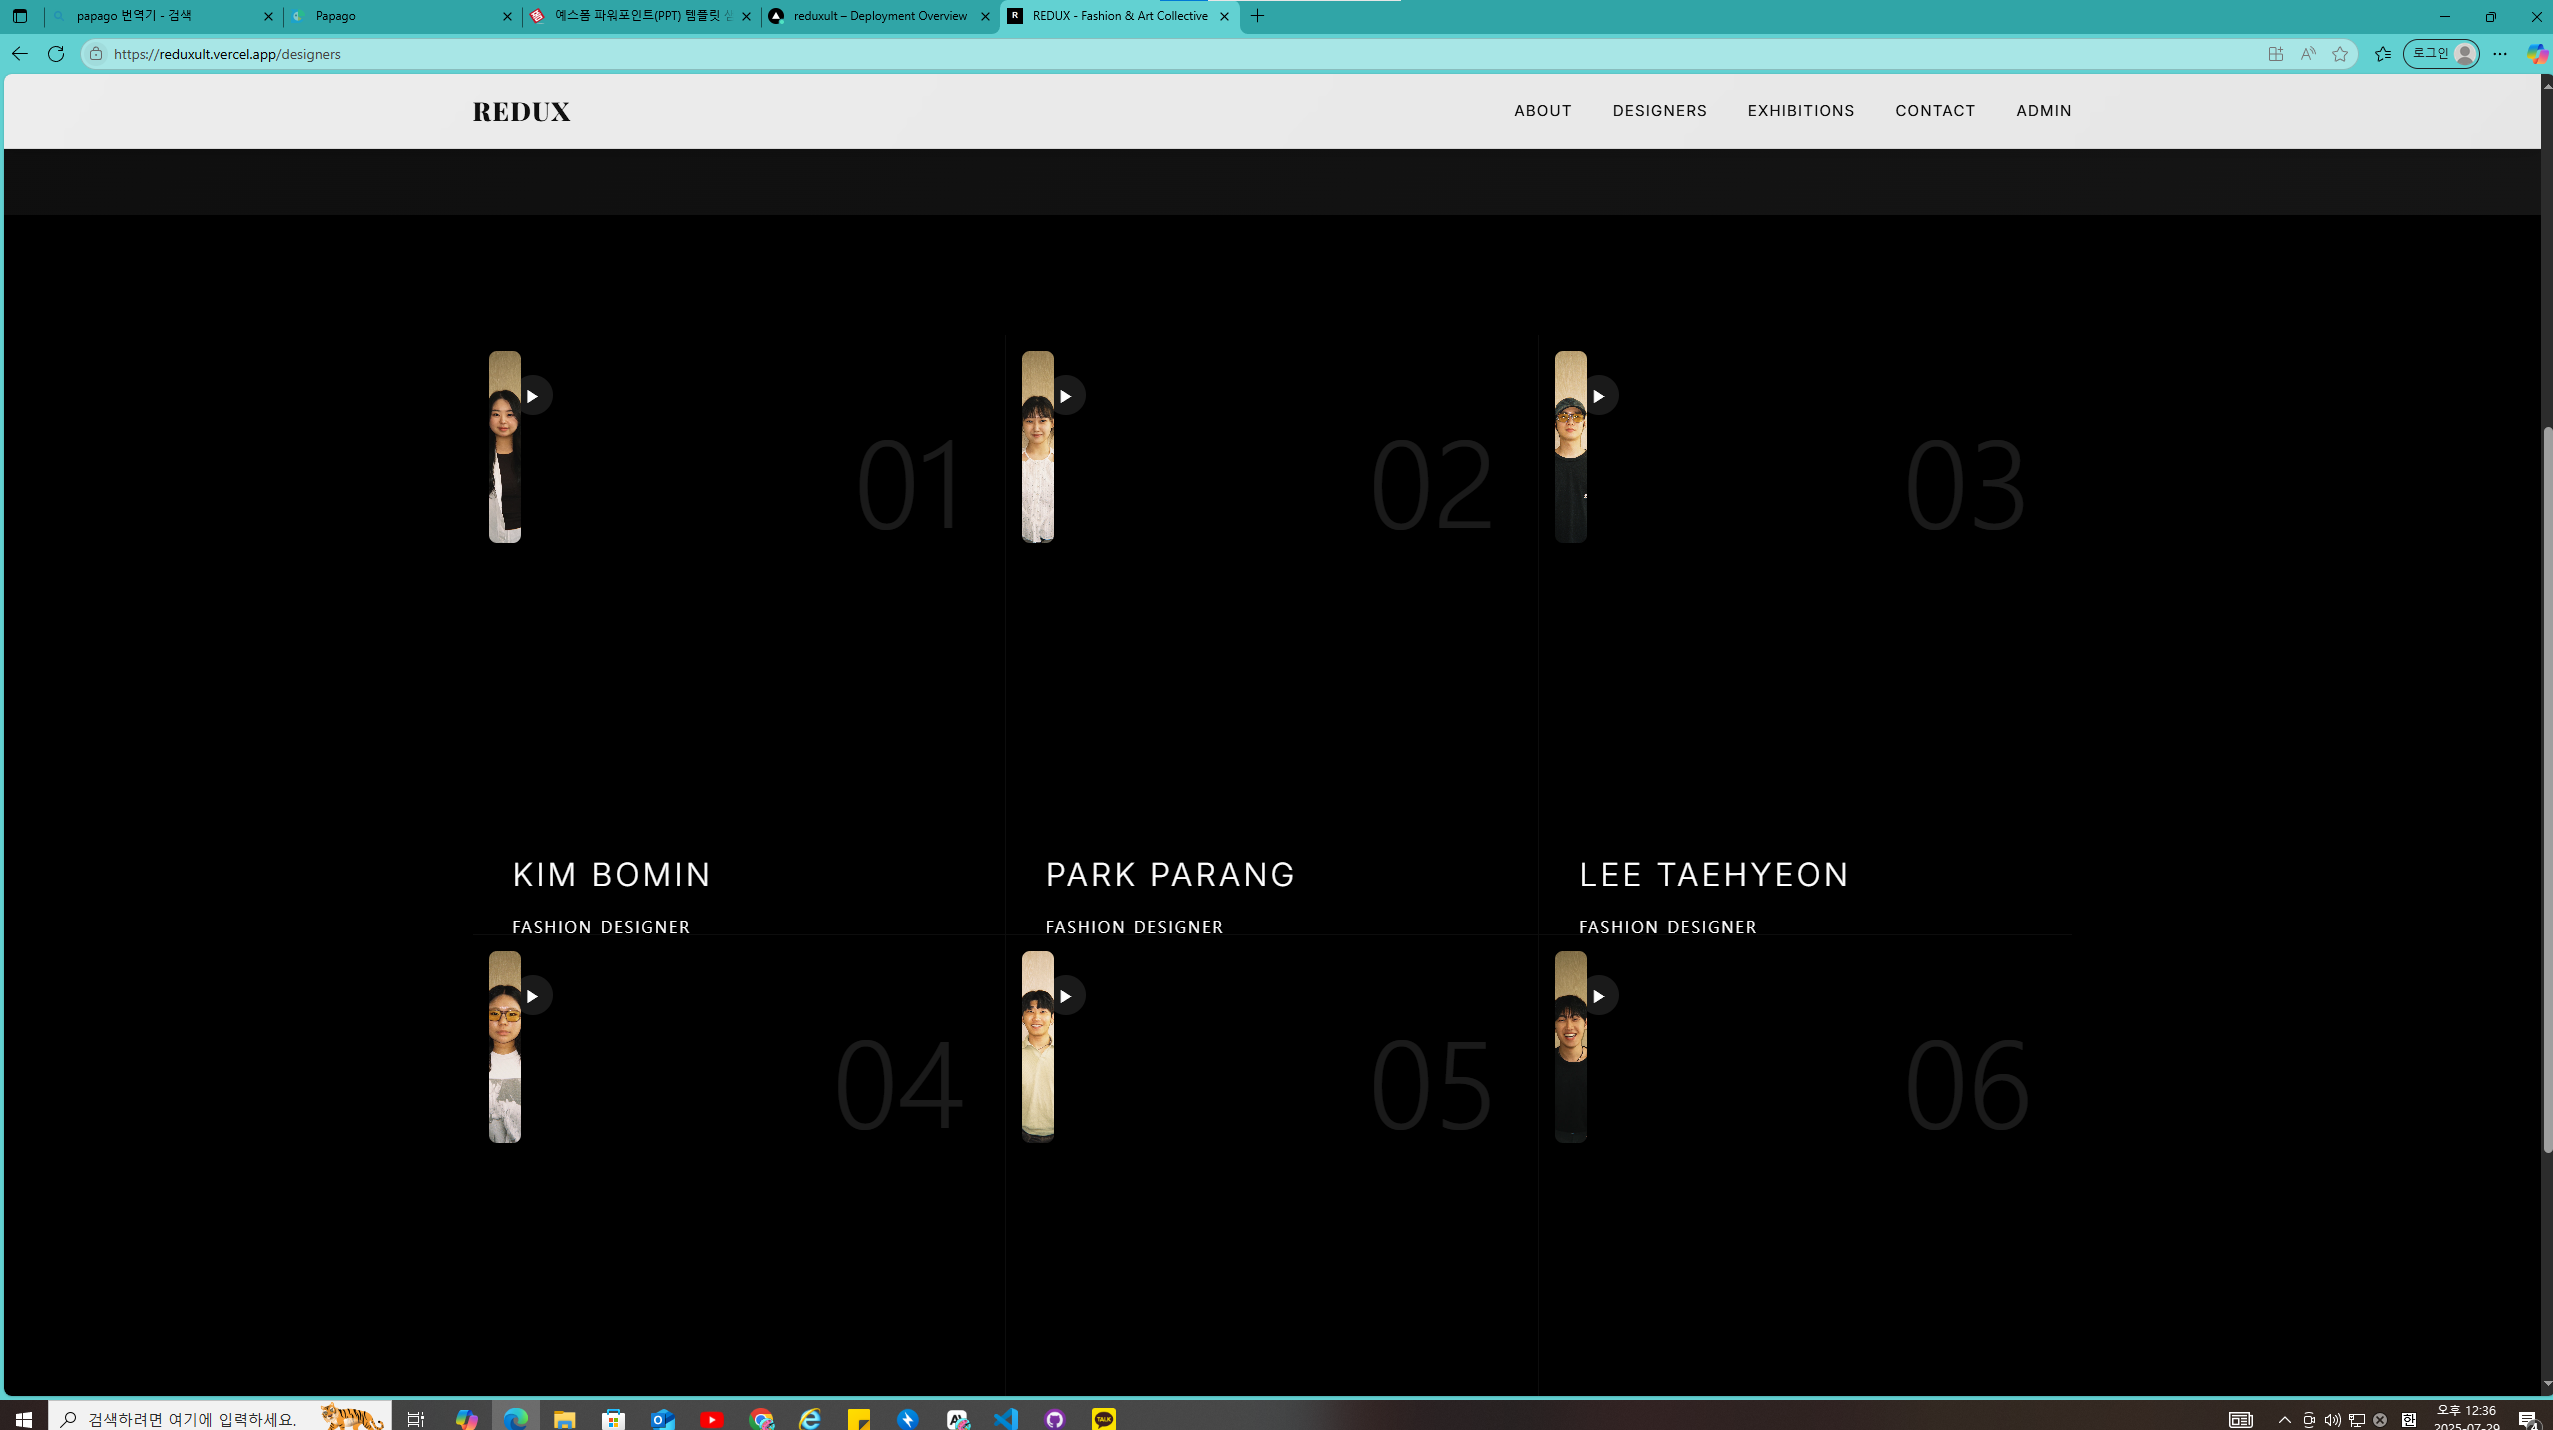
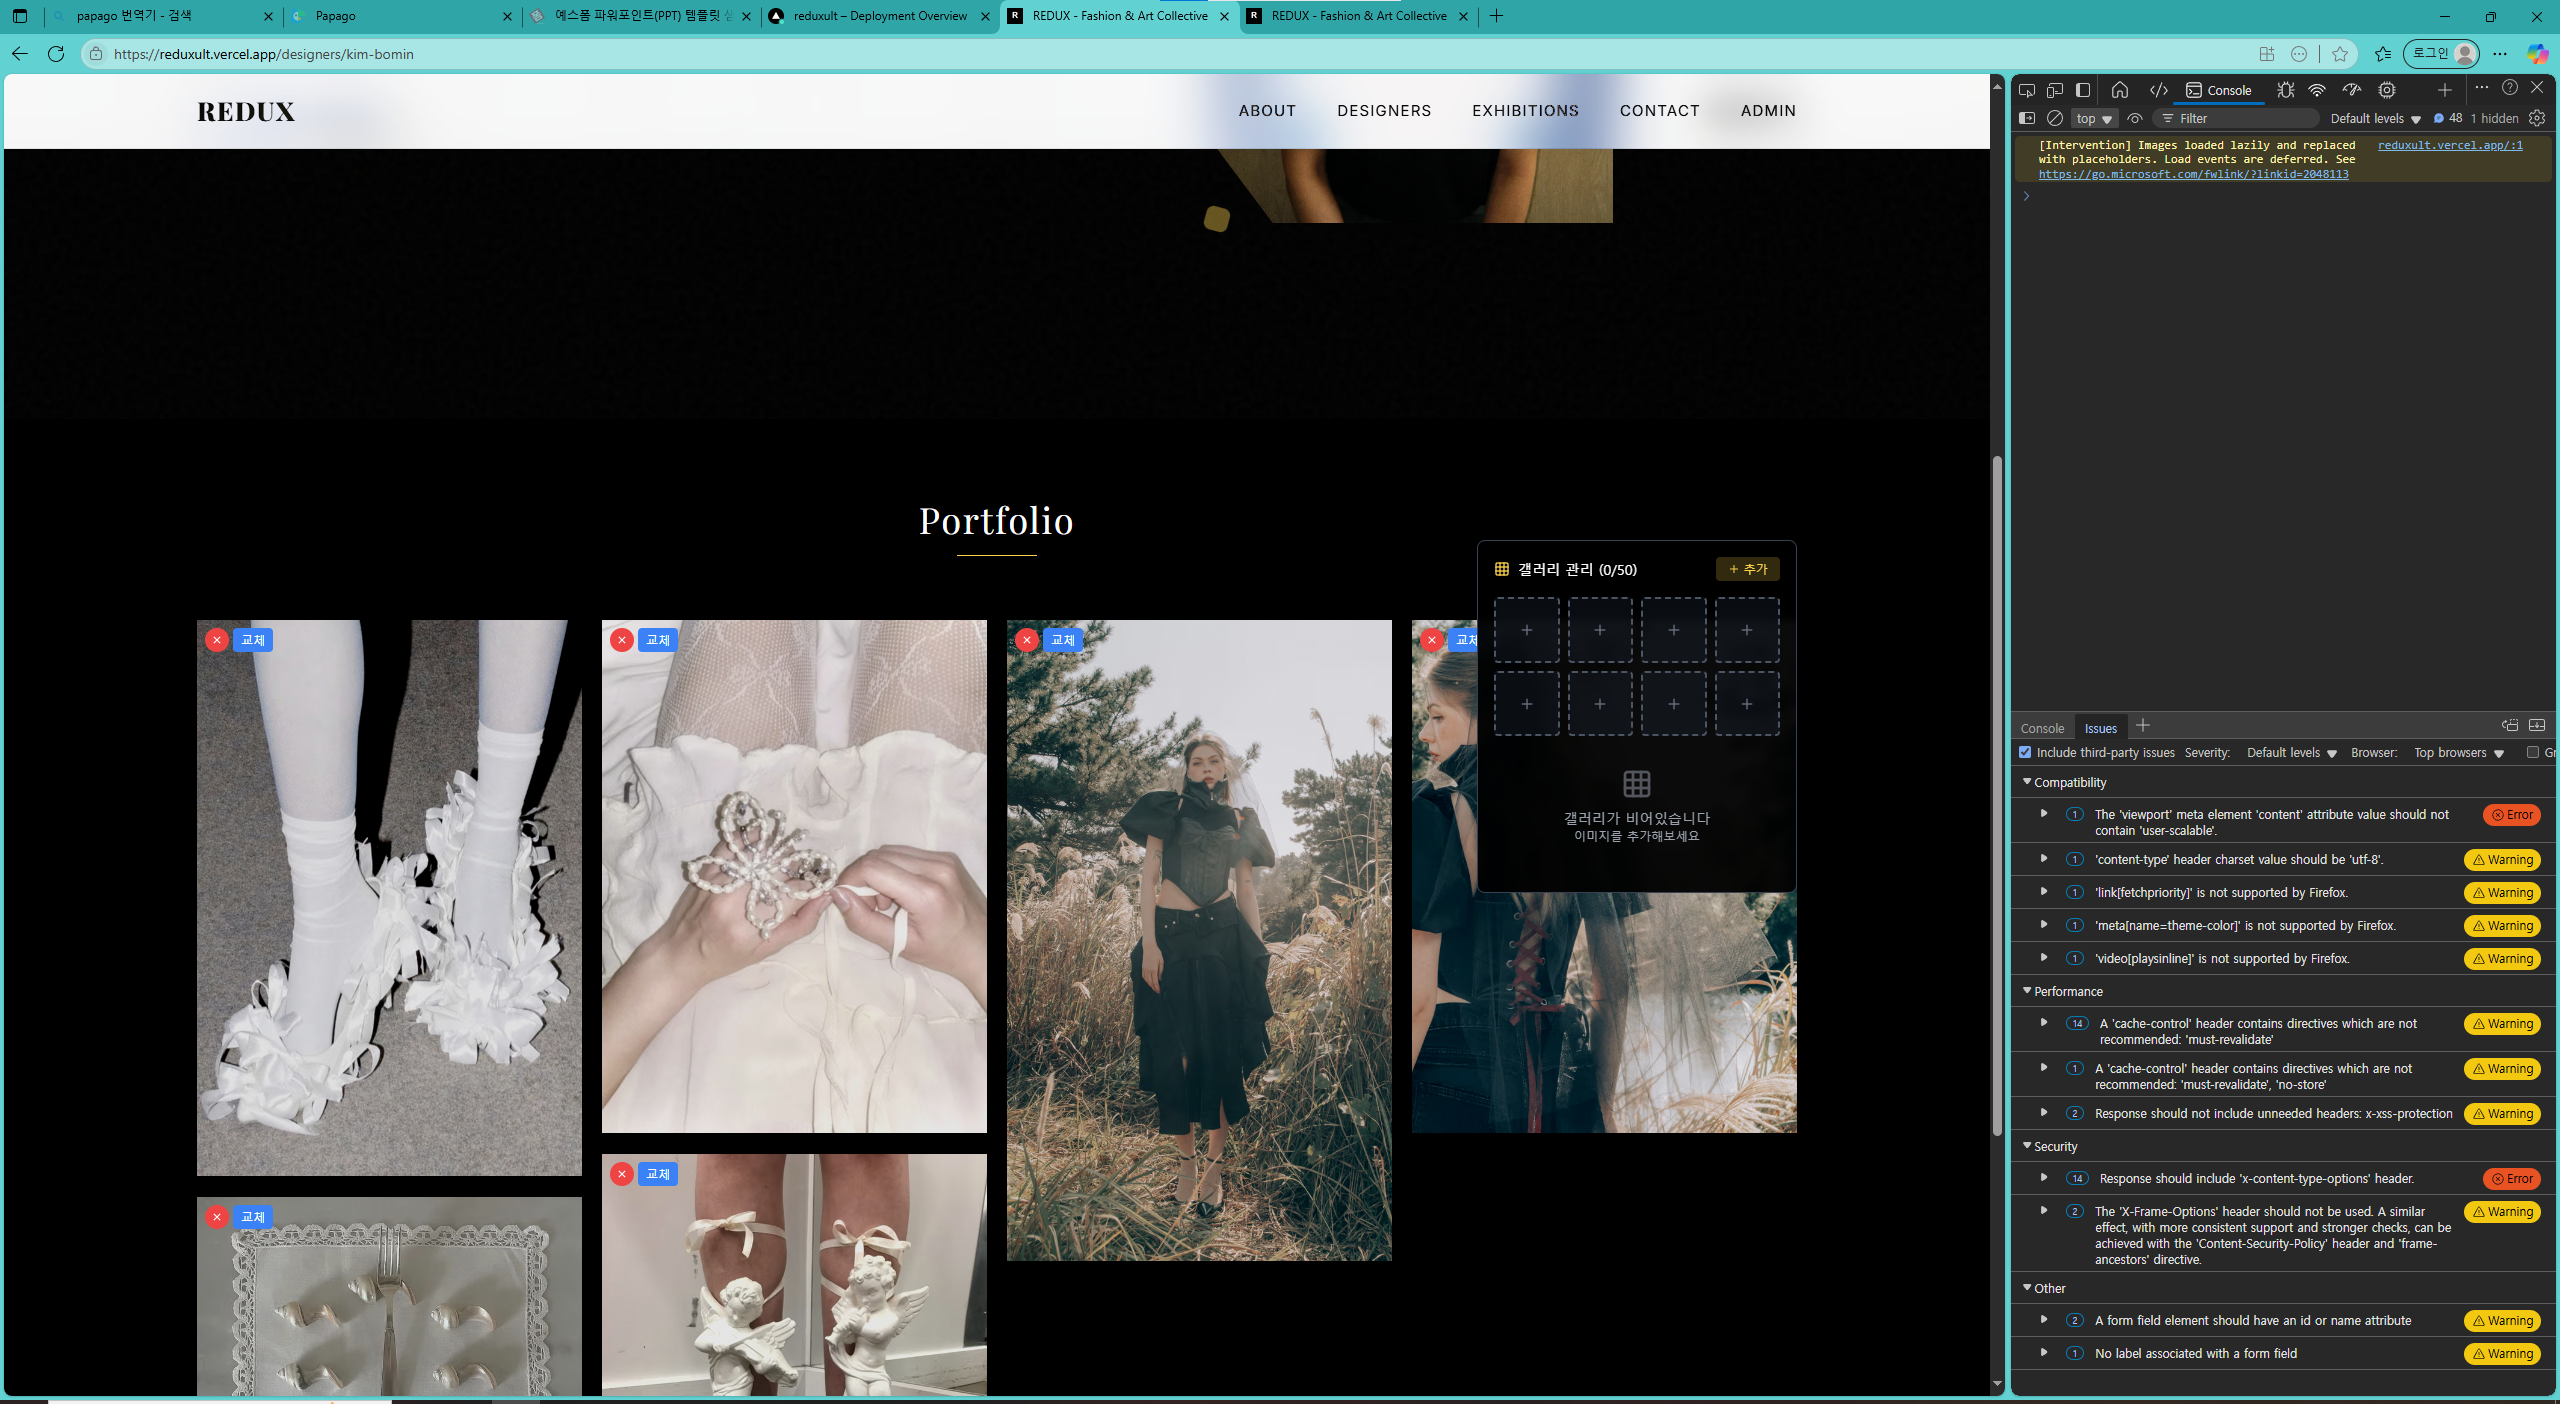
f

diff --git a/src/app/about/memory/page.tsx b/src/app/about/memory/page.tsx
@@ -2,9 +2,9 @@
 
 import { useEffect, useState } from 'react';
 import { useRouter } from 'next/navigation';
-import { useCMSSlot } from '@/hooks/useCMSSlot';
+import { useGalleryCMS } from '@/hooks/useSimpleCMS';
 import { useSimpleAuth } from '@/hooks/useSimpleAuth';
-import MediaSlot from '@/components/cms/MediaSlot';
+import DirectCMS from '@/components/cms/DirectCMS';
 import OptimizedImage from '@/components/ui/OptimizedImage';
 
 // HTML redux6 about-memory.html과 완전 동일한 Memory 페이지 구현
@@ -19,7 +19,14 @@ export default function MemoryPage() {
   
   // CMS integration
   const { isAuthenticated } = useSimpleAuth();
-  const { slot: memorySlot, currentFiles: galleryImages, updateFiles: updateGalleryImages } = useCMSSlot('about-memory-gallery');
+  const memoryCMS = useGalleryCMS('about-memory-gallery', [
+    '/images/about/memory/IMG_3452.JPG',
+    '/images/about/memory/IMG_3453.JPG',
+    '/images/about/memory/IMG_3454.JPG',
+    '/images/about/memory/IMG_3455.JPG',
+    '/images/about/memory/IMG_3456.JPG'
+  ]);
+  const galleryImages = memoryCMS.currentImages;
 
   // Ensure client-side rendering
   useEffect(() => {
@@ -197,45 +204,58 @@ export default function MemoryPage() {
                   Moment {String(index + 1).padStart(2, '0')}
                 </p>
               </div>
+              
+              {/* CMS 버튼 for admin */}
+              {isAuthenticated && (
+                <div 
+                  className="absolute top-2 right-2 z-20"
+                  onClick={(e) => {
+                    e.preventDefault();
+                    e.stopPropagation();
+                  }}
+                >
+                  <DirectCMS
+                    slotId={`memory-gallery-${index}`}
+                    currentUrl={image}
+                    type="image"
+                    onUpload={(url) => {
+                      const newImages = [...galleryImages];
+                      newImages[index] = url;
+                      memoryCMS.updateGallery(newImages);
+                    }}
+                    onDelete={() => {
+                      const newImages = galleryImages.filter((_, i) => i !== index);
+                      memoryCMS.updateGallery(newImages);
+                    }}
+                    isAdminMode={true}
+                    placeholder={`메모리 ${index + 1}`}
+                  />
+                </div>
+              )}
             </div>
           ))}
         </div>
 
-        {/* CMS Admin Interface - Only visible to authenticated users */}
-        {isAuthenticated && memorySlot && (
-          <div 
-            className="cms-admin-section"
-            style={{
-              maxWidth: '1800px',
-              margin: '60px auto 0',
-              padding: '0 20px'
-            }}
-          >
-            <div style={{
-              background: 'rgba(0, 0, 0, 0.8)',
-              backdropFilter: 'blur(10px)',
-              borderRadius: '16px',
-              border: '1px solid rgba(255, 255, 255, 0.1)',
-              padding: '24px'
-            }}>
-              <div style={{
-                color: 'var(--primary-white)',
-                fontSize: '16px',
-                fontWeight: 600,
-                marginBottom: '20px',
-                letterSpacing: '1px',
-                textTransform: 'uppercase',
-                textAlign: 'center'
-              }}>
-                📸 Memory Gallery Management
-              </div>
-              
-              <MediaSlot
-                slot={memorySlot}
-                currentFiles={galleryImages}
-                onFilesUpdate={updateGalleryImages}
+        {/* 새 이미지 추가 슬롯 */}
+        {isAuthenticated && (
+          <div className="max-w-[1800px] mx-auto mt-10 px-5">
+            <div 
+              className="[break-inside:avoid] mb-[2px] relative overflow-hidden bg-gray-800/50 border-2 border-dashed border-gray-600 hover:border-amber-300 transition-all duration-300 min-h-[200px] flex items-center justify-center"
+              style={{ 
+                animation: `fadeInSequential 0.8s cubic-bezier(0.25, 0.8, 0.25, 1) forwards`,
+                animationDelay: `${galleryImages.length * 50}ms`
+              }}
+            >
+              <DirectCMS
+                slotId={`memory-gallery-new`}
+                type="image"
+                onUpload={(url) => {
+                  const newImages = [...galleryImages, url];
+                  memoryCMS.updateGallery(newImages);
+                }}
                 isAdminMode={true}
-                className="memory-cms-slot"
+                placeholder="새 메모리 추가"
+                className="w-full h-full flex items-center justify-center"
               />
             </div>
           </div>

diff --git a/src/app/designers/[slug]/page.tsx b/src/app/designers/[slug]/page.tsx
@@ -374,13 +374,21 @@ export default function DesignerPage({ params }: Props) {
                           currentUrl={image}
                           type="image"
                           onUpload={(url) => {
-                            const newImages = [...(portfolioCMS.currentImages.length > 0 ? portfolioCMS.currentImages : designer.portfolioImages)];
-                            newImages[index] = url;
-                            portfolioCMS.handleUpload(url); // 전체 갤러리 업데이트
+                            const currentImages = portfolioCMS.currentImages.length > 0 ? portfolioCMS.currentImages : designer.portfolioImages;
+                            const newImages = [...currentImages];
+                            if (index < newImages.length) {
+                              // 기존 이미지 교체
+                              newImages[index] = url;
+                            } else {
+                              // 새 이미지 추가
+                              newImages.push(url);
+                            }
+                            portfolioCMS.updateGallery(newImages);
                           }}
                           onDelete={() => {
-                            const newImages = (portfolioCMS.currentImages.length > 0 ? portfolioCMS.currentImages : designer.portfolioImages).filter((_, i) => i !== index);
-                            portfolioCMS.reorderImages?.(0, 0); // 갤러리 업데이트 트리거
+                            const currentImages = portfolioCMS.currentImages.length > 0 ? portfolioCMS.currentImages : designer.portfolioImages;
+                            const newImages = currentImages.filter((_, i) => i !== index);
+                            portfolioCMS.updateGallery(newImages);
                           }}
                           isAdminMode={true}
                           placeholder={`포트폴리오 ${index + 1}`}
@@ -389,6 +397,30 @@ export default function DesignerPage({ params }: Props) {
                     )}
                   </div>
                 ))}
+                
+                {/* 새 이미지 추가 슬롯 */}
+                {isAuthenticated && (
+                  <div 
+                    className="[break-inside:avoid] mb-5 relative overflow-hidden bg-gray-800/50 border-2 border-dashed border-gray-600 hover:border-amber-300 transition-all duration-300 min-h-[200px] flex items-center justify-center"
+                    style={{ 
+                      animation: `revealItem 0.8s cubic-bezier(0.25, 0.8, 0.25, 1) forwards`,
+                      animationDelay: `${(portfolioCMS.currentImages.length > 0 ? portfolioCMS.currentImages : designer.portfolioImages).length * 100}ms`
+                    }}
+                  >
+                    <DirectCMS
+                      slotId={`designer-${designer.id}-portfolio-new`}
+                      type="image"
+                      onUpload={(url) => {
+                        const currentImages = portfolioCMS.currentImages.length > 0 ? portfolioCMS.currentImages : designer.portfolioImages;
+                        const newImages = [...currentImages, url];
+                        portfolioCMS.updateGallery(newImages);
+                      }}
+                      isAdminMode={true}
+                      placeholder="새 이미지 추가"
+                      className="w-full h-full flex items-center justify-center"
+                    />
+                  </div>
+                )}
               </div>
             </div>
           </div>

diff --git a/src/components/home/HeroSection.tsx b/src/components/home/HeroSection.tsx
@@ -71,11 +71,15 @@ function HeroSection() {
 
   const showVideo = () => {
     setIsVideoVisible(true);
-    if (videoRef.current) {
-      videoRef.current.play().catch(() => {
-        // 재생 실패시 무시
-      });
-    }
+    // 비디오가 보이게 된 후 약간의 지연을 두고 재생
+    setTimeout(() => {
+      if (videoRef.current && isVideoVisible) {
+        videoRef.current.currentTime = 0; // 처음부터 재생
+        videoRef.current.play().catch((error) => {
+          console.warn('Video play failed:', error);
+        });
+      }
+    }, 100);
   };
 
   // 서버 사이드 렌더링 중에는 기본 콘텐츠 반환
@@ -190,24 +194,24 @@ function HeroSection() {
       {!videoError && (
         <div className="absolute bottom-20 right-8 z-30">
           {isVideoVisible ? (
-            // X 버튼 - 비디오 끄기
+            // X 버튼 - 비디오 끄기 (미니멀 디자인)
             <button
               onClick={hideVideo}
-              className="w-12 h-12 bg-black/70 hover:bg-red-600/90 backdrop-blur-md border border-white/30 rounded-full flex items-center justify-center text-white transition-all duration-300 hover:scale-110 focus:outline-none focus:ring-2 focus:ring-red-400/50 shadow-lg"
+              className="w-12 h-12 bg-black/70 hover:bg-white/20 backdrop-blur-md border border-white/30 rounded-full flex items-center justify-center text-white transition-all duration-300 hover:scale-110 focus:outline-none focus:ring-2 focus:ring-white/30 shadow-lg"
               title="비디오 끄기"
               aria-label="비디오 끄기"
             >
               <span className="text-lg font-bold">×</span>
             </button>
           ) : (
-            // 재생 버튼 - 비디오 켜기
+            // 재생 버튼 - 비디오 켜기 (미니멀 디자인)
             <button
               onClick={showVideo}
-              className="w-12 h-12 bg-black/70 hover:bg-green-600/90 backdrop-blur-md border border-white/30 rounded-full flex items-center justify-center text-white transition-all duration-300 hover:scale-110 focus:outline-none focus:ring-2 focus:ring-green-400/50 shadow-lg"
+              className="w-12 h-12 bg-black/70 hover:bg-white/20 backdrop-blur-md border border-white/30 rounded-full flex items-center justify-center text-white transition-all duration-300 hover:scale-110 focus:outline-none focus:ring-2 focus:ring-white/30 shadow-lg"
               title="비디오 재생"
               aria-label="비디오 재생"
             >
-              <span className="text-sm" role="img" aria-label="재생">▶</span>
+              <span className="text-lg font-bold ml-0.5">▶</span>
             </button>
           )}
         </div>
